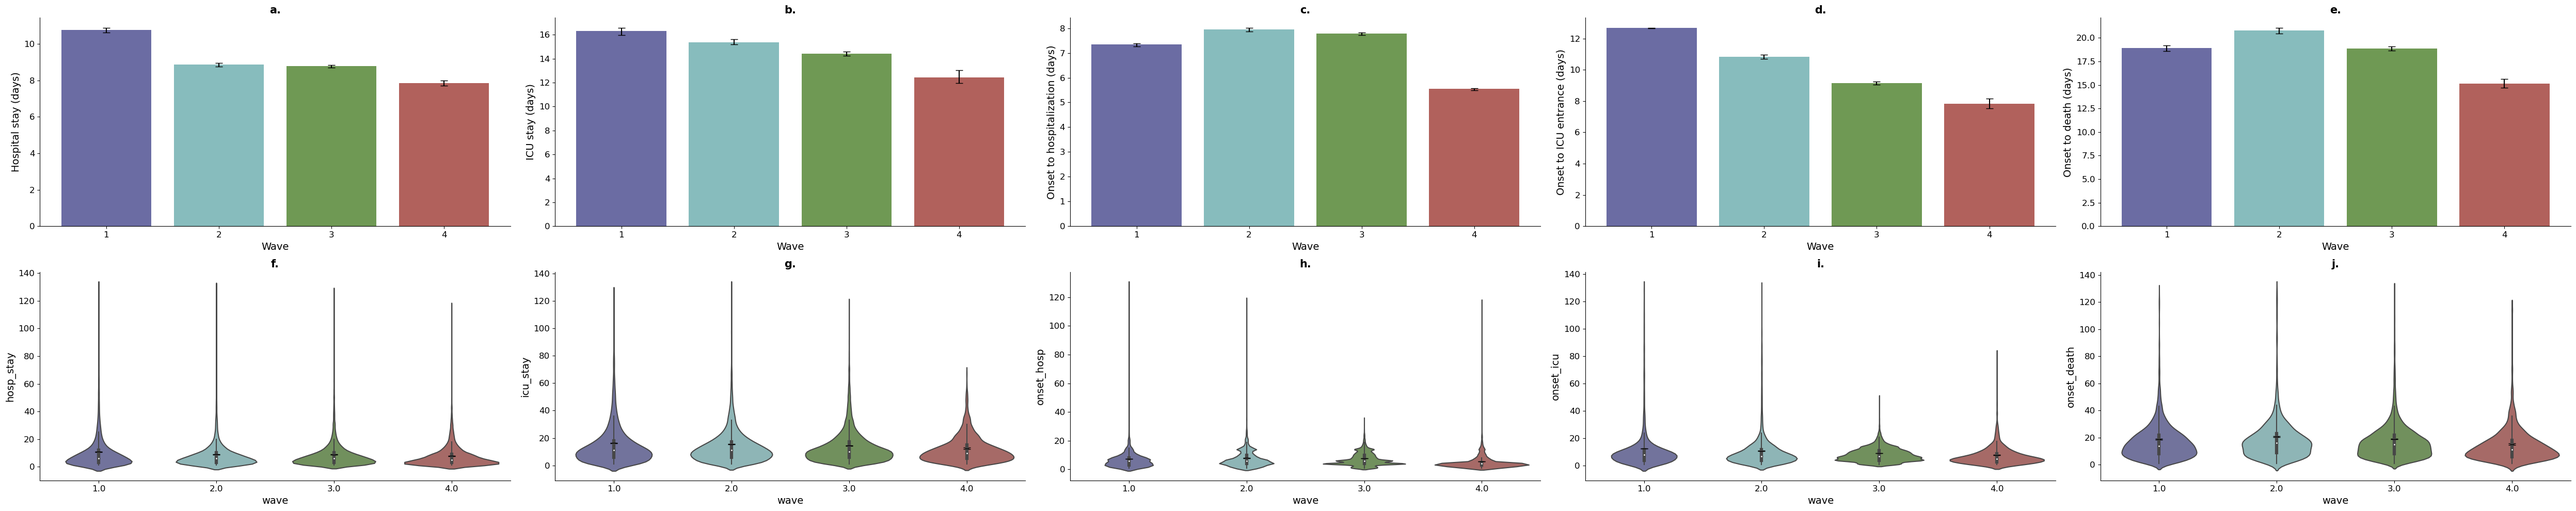
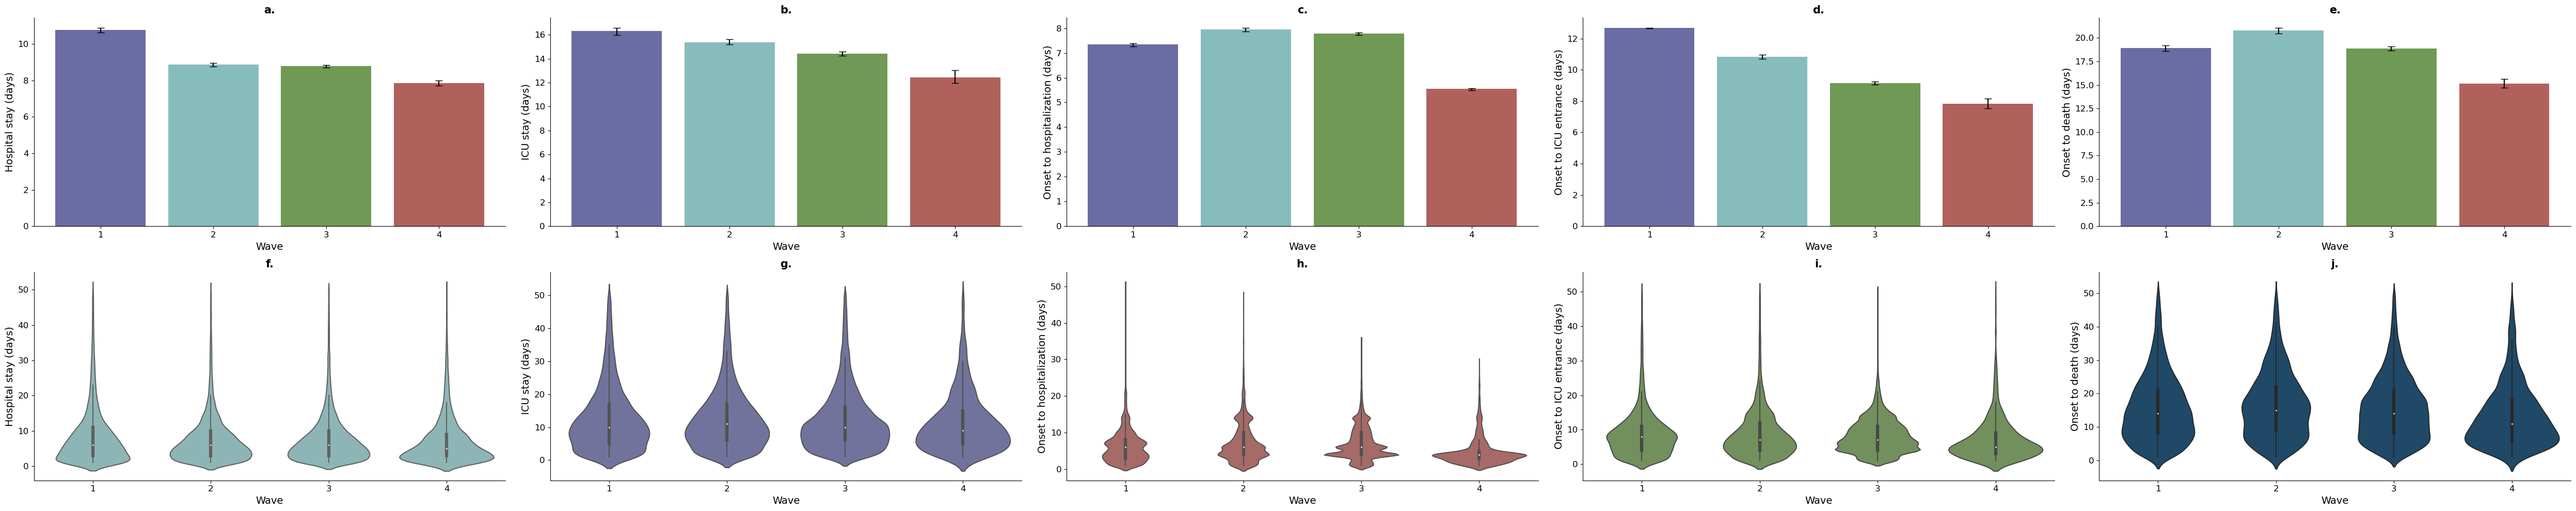
feat: added new version of figure 3

diff --git a/plot_scripts/results_epidemiological_distributions.py b/plot_scripts/results_epidemiological_distributions.py
@@ -11,6 +11,7 @@ import numpy as np
 from scipy import stats
 import scipy as scipy
 import matplotlib.pyplot as plt
+from matplotlib.ticker import MaxNLocator
 import seaborn as sns
 
 ymlfile = open("config.yml", "r")
@@ -249,7 +250,7 @@ fig.legend(handles, labels, bbox_to_anchor = (0.8, -0.03), ncol = len(dist_list)
 ########################################################################
 ########################################################################
 # Plot best model
-def plot_best_model_line(dist, ax, n, title):
+def get_best_error(dist):
     df_best_models_sum = pd.read_csv(OUT_PATH + "best_fit_summary.csv")
     df_dist = df_best_models_sum[df_best_models_sum.dist == dist]
     df_dist = df_dist.set_index('stat')
@@ -264,6 +265,16 @@ def plot_best_model_line(dist, ax, n, title):
                      df_dist['wave_2']['q975'] - df_dist['wave_2']['mean'], 
                      df_dist['wave_3']['q975'] - df_dist['wave_3']['mean'], 
                      df_dist['wave_4']['q975'] - df_dist['wave_4']['mean']]]))
+    return mean, err
+
+def plot_best_model_line(dist, ax, n, title):
+    df_best_models_sum = pd.read_csv(OUT_PATH + "best_fit_summary.csv")
+    df_dist = df_best_models_sum[df_best_models_sum.dist == dist]
+    df_dist = df_dist.set_index('stat')
+    name = dist.replace('_', ' ')
+    
+    mean, err = get_best_error(dist)
+    
     ax.errorbar(['1', '2', '3', '4'], mean, err, 
                 ls = '-', marker = 'o', 
                 color = colors[n],
@@ -278,16 +289,9 @@ def plot_best_model_bar(dist, ax, n, name_y, title):
     df_dist = df_best_models_sum[df_best_models_sum.dist == dist]
     df_dist = df_dist.set_index('stat')
     name = dist.replace('_', ' ')
-    mean = np.array([df_dist['wave_1']['mean'], df_dist['wave_2']['mean'], 
-                     df_dist['wave_3']['mean'], df_dist['wave_4']['mean']])
-    err = abs(np.array([[df_dist['wave_1']['mean'] - df_dist['wave_1']['q025'], 
-                     df_dist['wave_2']['mean'] - df_dist['wave_2']['q025'], 
-                     df_dist['wave_3']['mean'] - df_dist['wave_3']['q025'], 
-                     df_dist['wave_4']['mean'] - df_dist['wave_4']['q025']],
-                    [df_dist['wave_1']['q975'] - df_dist['wave_1']['mean'], 
-                     df_dist['wave_2']['q975'] - df_dist['wave_2']['mean'], 
-                     df_dist['wave_3']['q975'] - df_dist['wave_3']['mean'], 
-                     df_dist['wave_4']['q975'] - df_dist['wave_4']['mean']]]))
+    
+    mean, err = get_best_error(dist)
+    
     ax.bar(['1', '2', '3', '4'], mean, yerr = err,
     color = colors, label = name)
     ax.set_xlabel('Wave')
@@ -306,30 +310,30 @@ def plot_violin(var, name_y, title, ax):
     if var == 'onset_death':
         n = 4
     df = all_dfs[n]
-    #df = df[(df[var] > 0) & (df[var] <= 50)]
+    df = df[(df[var] > 0) & (df[var] <= 50)]
     df_best_models_sum = pd.read_csv(OUT_PATH + "best_fit_summary.csv")
     df_dist = df_best_models_sum[df_best_models_sum.dist == var]
     df_dist = df_dist.set_index('stat')
     name = var.replace('_', ' ')
-    mean = np.array([df_dist['wave_1']['mean'], df_dist['wave_2']['mean'], 
-                     df_dist['wave_3']['mean'], df_dist['wave_4']['mean']])
-    err = abs(np.array([[df_dist['wave_1']['mean'] - df_dist['wave_1']['q025'], 
-                     df_dist['wave_2']['mean'] - df_dist['wave_2']['q025'], 
-                     df_dist['wave_3']['mean'] - df_dist['wave_3']['q025'], 
-                     df_dist['wave_4']['mean'] - df_dist['wave_4']['q025']],
-                    [df_dist['wave_1']['q975'] - df_dist['wave_1']['mean'], 
-                     df_dist['wave_2']['q975'] - df_dist['wave_2']['mean'], 
-                     df_dist['wave_3']['q975'] - df_dist['wave_3']['mean'], 
-                     df_dist['wave_4']['q975'] - df_dist['wave_4']['mean']]]))
-    ax.errorbar(['1', '2', '3', '4'], mean, err, 
-                ls = '', marker = '_', 
-                color = 'black',
-                label = name)
+    
+    mean, err = get_best_error(var)
+    
+    #ax.errorbar([1, 2, 3, 4], mean, 
+    #           ls = '', marker = '_', 
+    #            color = 'black')
     #ax.set_yscale('log')
+    df['wave'] = df['wave'].astype(int)
+    sns.violinplot(data=df, x="wave", y=var, dodge=False, ax= ax, color = colors[n])
     ax.set_xlabel('Wave')
     ax.set_ylabel(name_y)
     ax.set_title(title)
+    ax.xaxis.set_major_locator(MaxNLocator(integer=True))
 
-    sns.violinplot(data=df, x="wave", y=var, dodge=False, ax= ax)
-
-
+def plot_best_model_bar_all(dist, ax, w, n, title, wt=0.1):
+    mean, err = get_best_error(dist)
+    ax.bar([1+w, 2+w, 3+w, 4+w], mean, yerr = err, 
+           width = abs(wt), 
+           color = colors[n])
+    ax.xaxis.set_major_locator(MaxNLocator(integer=True))
+    ax.set_title(title)
+    ax.set_ylabel('Days')

diff --git a/plot_scripts/figure_3.py b/plot_scripts/figure_3.py
@@ -35,3 +35,66 @@ dist = 'onset_death'
 red.plot_best_model_bar(dist, ax[0][4], 4, 'Onset to death (days)', 'e.')
 red.plot_violin(dist, 'Onset to death (days)', 'j.', ax[1][4])
 fig.savefig(FIG_PATH + 'figure_3.png')
+
+
+
+
+
+fig, axes = plt.subplot_mosaic([['up', 'up'],['left1', 'right1'],
+                                ['left2', 'right2'],['left3', 'right3']],
+                              figsize = (10,10))
+wt=0.1
+ax = axes['up']
+dist = 'onset_hosp'
+w=-0.2
+red.plot_best_model_bar_all(dist, ax, w, 3, 'a.')
+
+dist = 'onset_icu'
+w=-0.1
+red.plot_best_model_bar_all(dist, ax, w, 2, 'a.')
+
+dist = 'onset_death'
+w= 0
+red.plot_best_model_bar_all(dist, ax, w, 4, 'a.')
+
+dist = 'hosp_stay'
+w=0.1
+red.plot_best_model_bar_all(dist, ax, w, 1, 'a.')
+dist = 'icu_stay'
+w=0.2
+red.plot_best_model_bar_all(dist, ax, w, 0, 'a.')
+
+ax = axes['left1']
+dist = 'onset_hosp'
+red.plot_violin(dist, 'Days', 'b.', ax)
+
+ax = axes['right1']
+dist = 'onset_icu'
+red.plot_violin(dist, 'Days', 'c.', ax)
+
+ax = axes['left2']
+dist = 'onset_death'
+red.plot_violin(dist, 'Days', 'd.', ax)
+
+ax = axes['right2']
+dist = 'hosp_stay'
+red.plot_violin(dist, 'Days', 'e.', ax)
+
+ax = axes['left3']
+dist = 'icu_stay'
+red.plot_violin(dist, 'Days', 'f.', ax)
+
+ax = axes['right3']
+ax.axis('off')
+
+ax = axes['up']
+ax.legend(['Onset to hospitalization', 
+           'Onset to ICU entrance',
+           'Onset to death',
+           'Hospital stay',
+           'ICU stay'], 
+          bbox_to_anchor=(0.85, 0.25), bbox_transform=fig.transFigure, ncol=1)
+
+fig.tight_layout()
+fig.show()
+fig.savefig(FIG_PATH + 'figure_3_v2.png')
